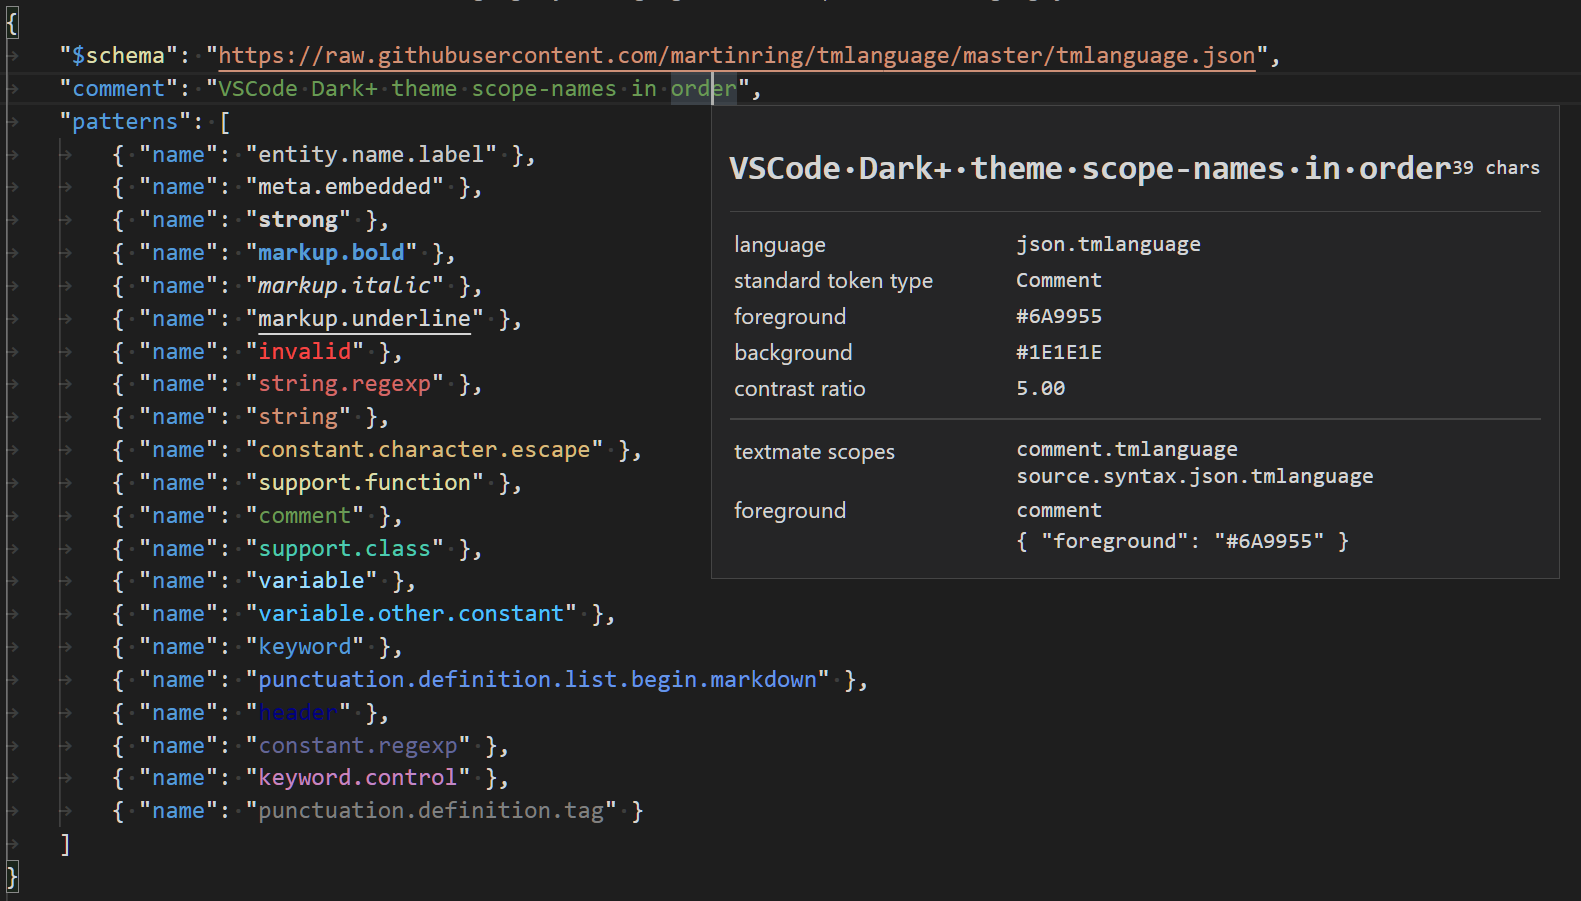
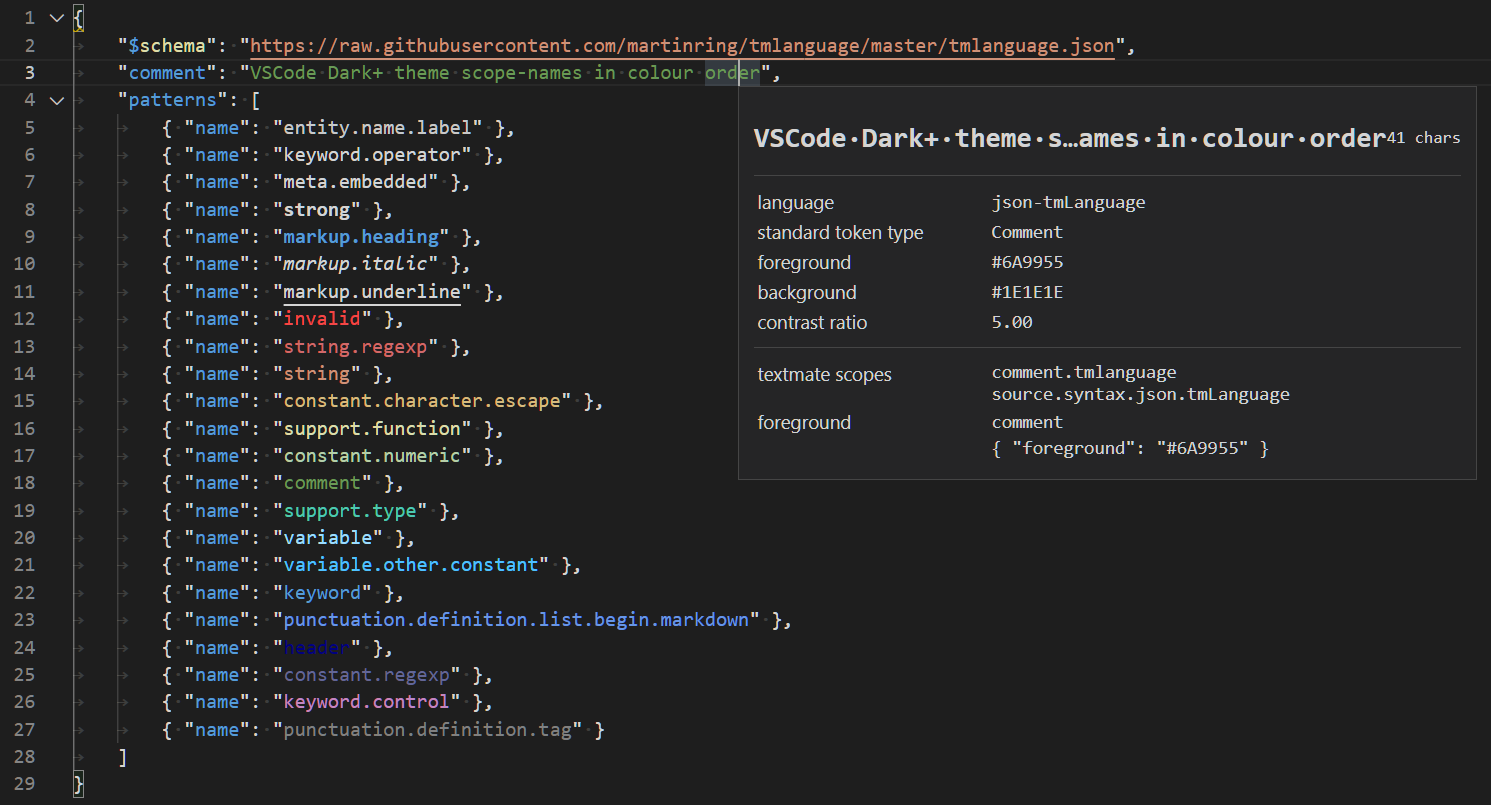
Update images, add json error checking, more info and todo list to readme file

diff --git a/README.md b/README.md
@@ -8,17 +8,44 @@ Syntax Highlighting for JSON based TextMate Language and Regex
 
 
 ## Features
+Big update, almost supports 100% of the textmate specification
 
-Actually works now >_>
+![example-code](https://github.com/RedCMD/TmLanguage-Syntax-Highlighter/blob/main/images/Example%20Code%20V1.2.png?raw=true)
 
-![example-urcl-code](https://cdn.discordapp.com/attachments/533946600607711232/871357751618568222/Example_Code.png)	
+Highlights scope names with their own themed colour in realtime
+![list-of-VSCode-Dark+-scopenames-and-their-colours](https://github.com/RedCMD/TmLanguage-Syntax-Highlighter/blob/main/images/VSCode%20Dark+%20theme%20coloured%20scope-names.png?raw=true)
 
-Highlights scope names based on their scope
-![example-urcl-code](https://cdn.discordapp.com/attachments/533946600607711232/871357613722447922/VSCode_Dark_theme_coloured_scope-names.png)
+Invalid code is highlighted in red and underlined  
+Incorrect code is highlighted in red and with italics  
+Unsupported json keys and values default back to their standard json colours  
+Unknown code is highlighted red  
 
-All invalid/incorrect code is highlighted in red.  
+### JSON error checking
+JSON based error squiggles can be enabled by manually adding the language id to the json language server code  
+Open the file at `\Microsoft VS Code\resources\app\extensions\json-language-features\client\dist\node\jsonClientMain.js`  
+Ctrl+F to find the text `"jonsc"` and immediately copy/paste `,"json-tmLanguage"` after it. (take note that the `L` is capitalised)  
+It should look like this: `const S=["json","jsonc","json-tmLanguage"],`  
+![enable-json-lanuage-server](https://github.com/RedCMD/TmLanguage-Syntax-Highlighter/blob/main/images/Enable%20Json%20language%20server.png?raw=true)  
+
+
 
 ## Requirements
+This extension was designed with VSCode's default Dark+ theme in mind  
+Other themes may work with various successes  
+If you would like me to add support for a theme, please just message me  
 
-This extension was designed with VSCode's default Dark+ theme in mind.  
-Other themes may work with various successes.  
+
+### For more information
+* [Github - VSCode TextMate](https://github.com/microsoft/vscode-textmate)
+* [Github - Oniguruma](https://github.com/kkos/oniguruma)
+* [Github - TmLanguage-Syntax-Highlighter](https://github.com/RedCMD/TmLanguage-Syntax-Highlighter)
+* [Github - TextMates Schema](https://github.com/martinring/tmlanguage)
+
+
+### Todo
+* Support JSON Keys: `"information_for_contributors"`, `"version"` and `"injections"`
+* Support posix's super buggy behaviour: [Github Issue - Funky Posix Classes](https://github.com/microsoft/vscode-textmate/issues/165)
+* Fix char ranges in character classes or wait for vscode to fix textmate bug (`[\\\\-\\\\]`): [Github Issue - Subroutines breaking tokenization](https://github.com/microsoft/vscode-textmate/issues/164)
+* Allow spaces, underscores and dashes in all places inside Unicode Categorys `\\p{  Let _te--r}`: [Github - List of unicode properties](https://github.com/kkos/oniguruma/blob/bb31b4d402ee3f3a3bc4855c9d0271f43a3e4793/doc/UNICODE_PROPERTIES)
+* Correctly mark unnecessary backslahes infront of `&` inside character classes when mix with `&` based char ranges
+* Correctly mark unnecessary backslahes around `\\{1\\,9\\}`
